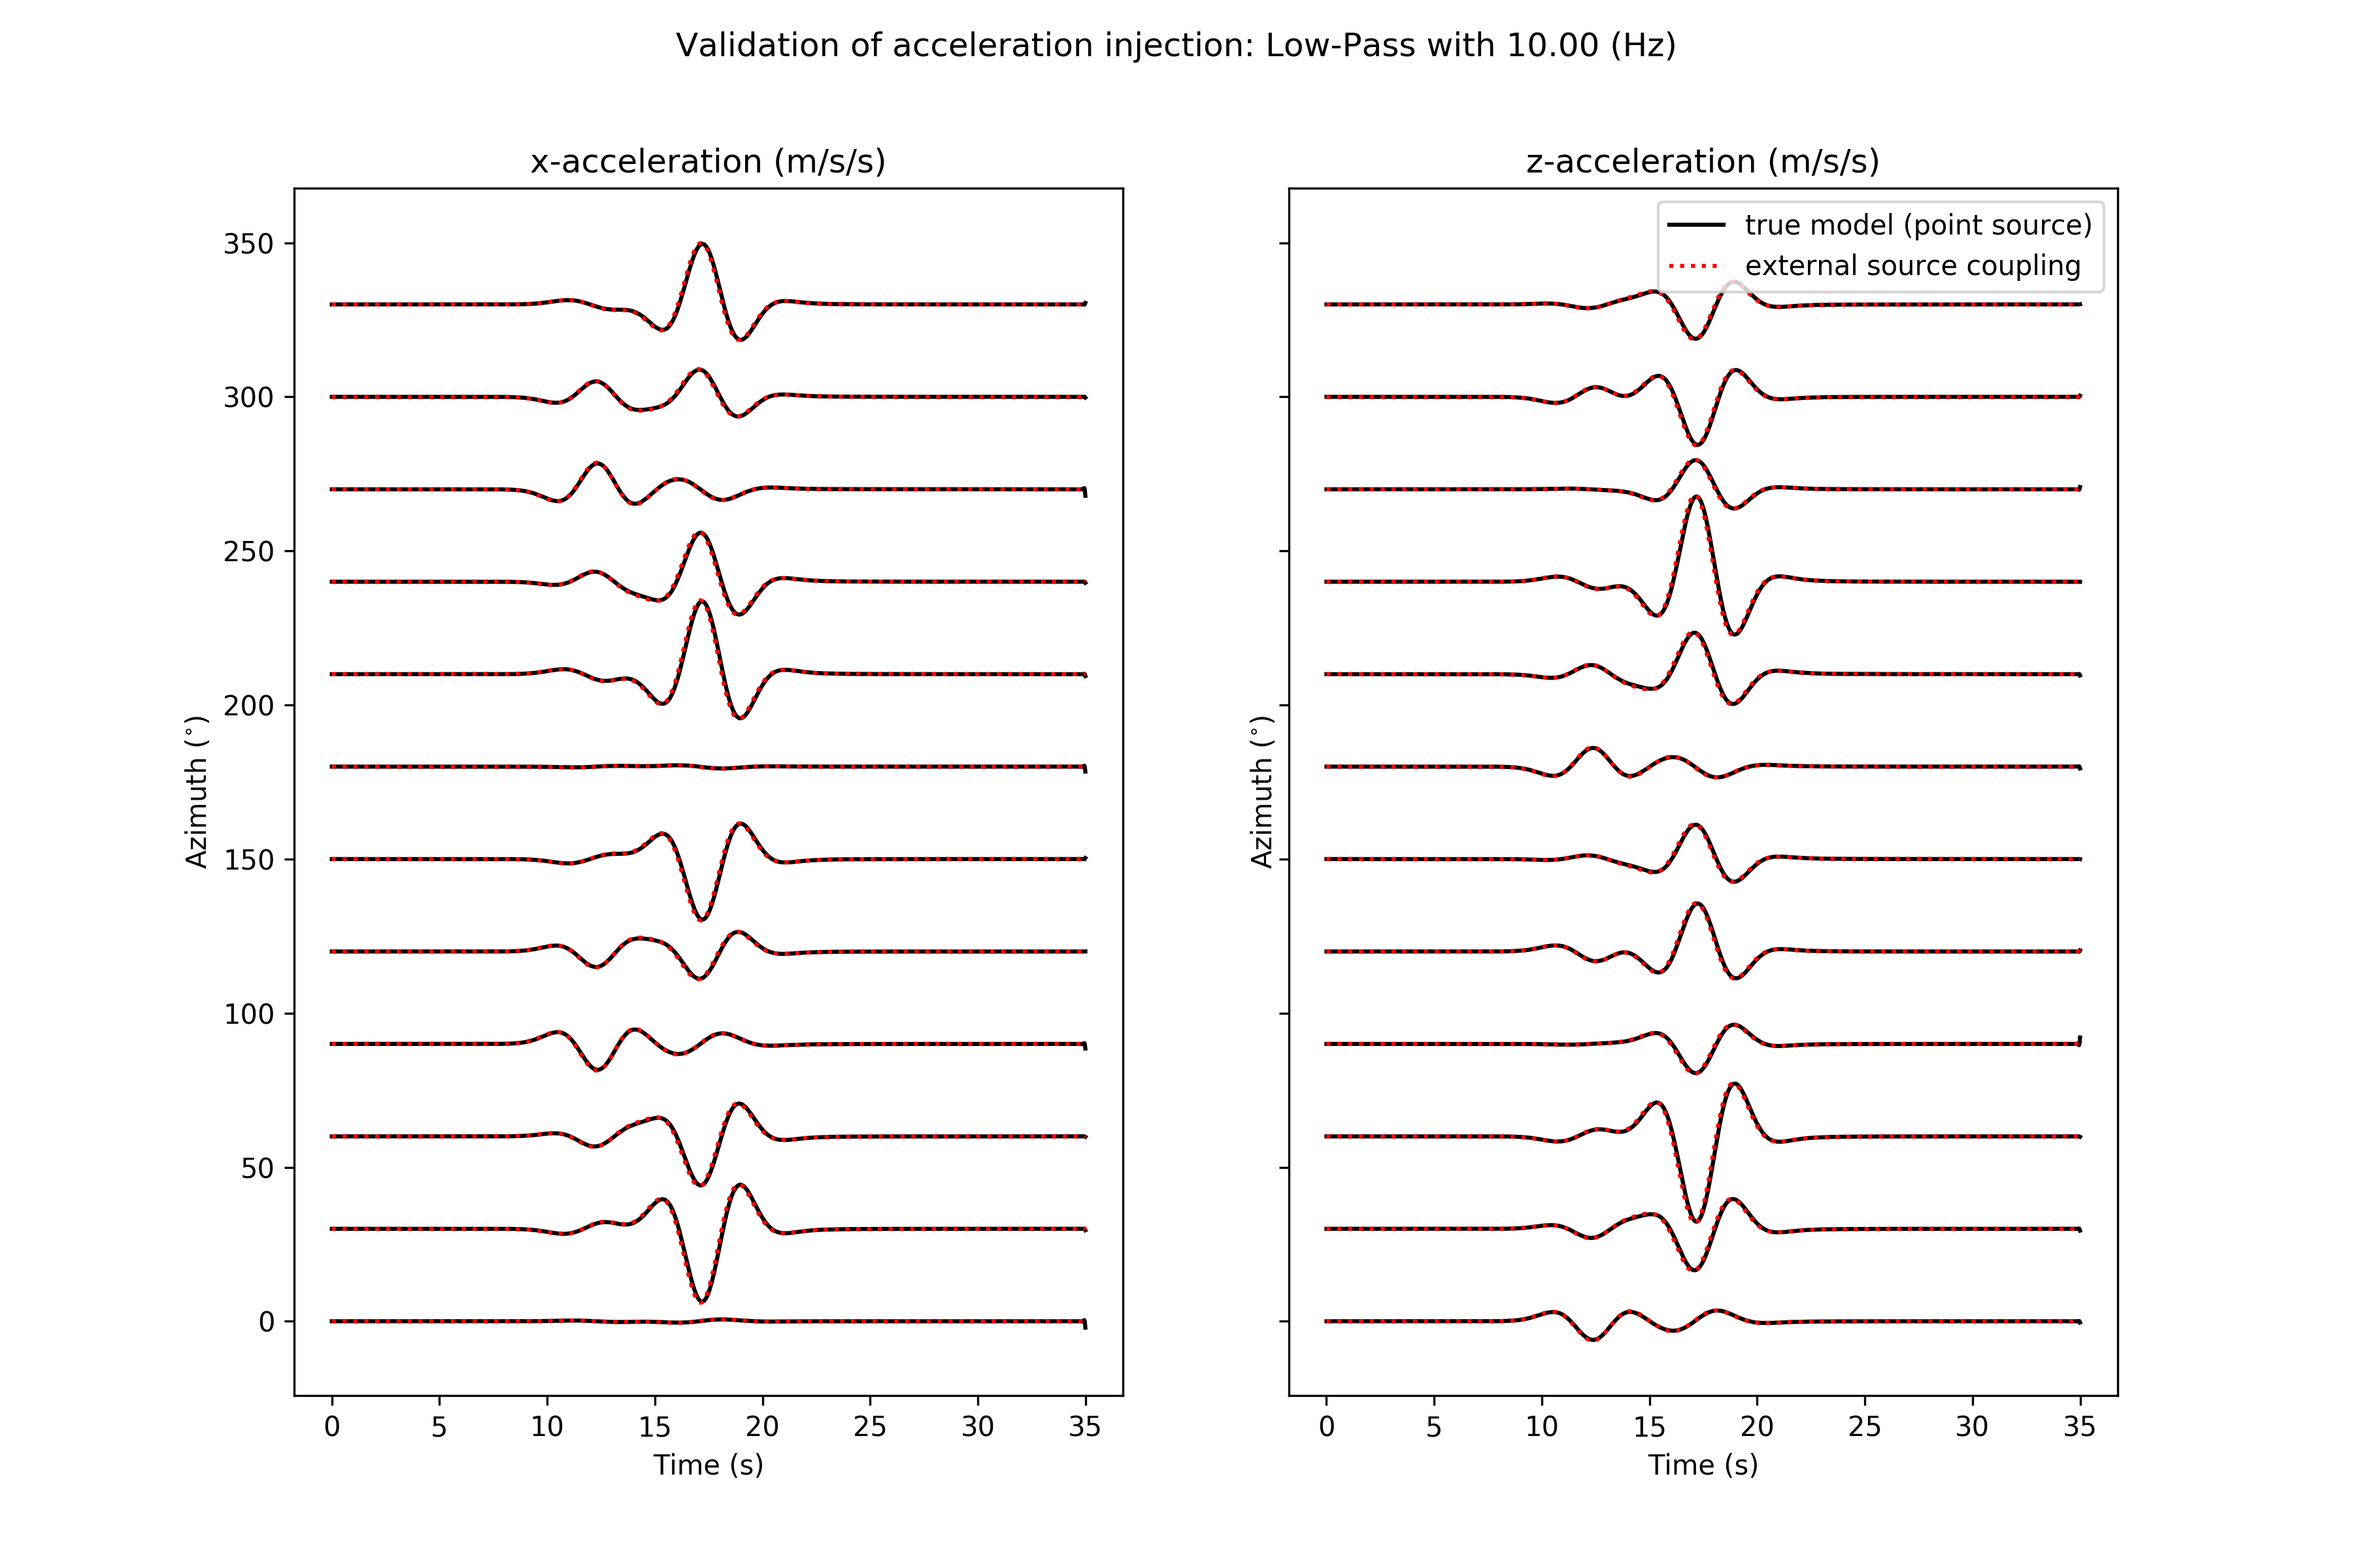
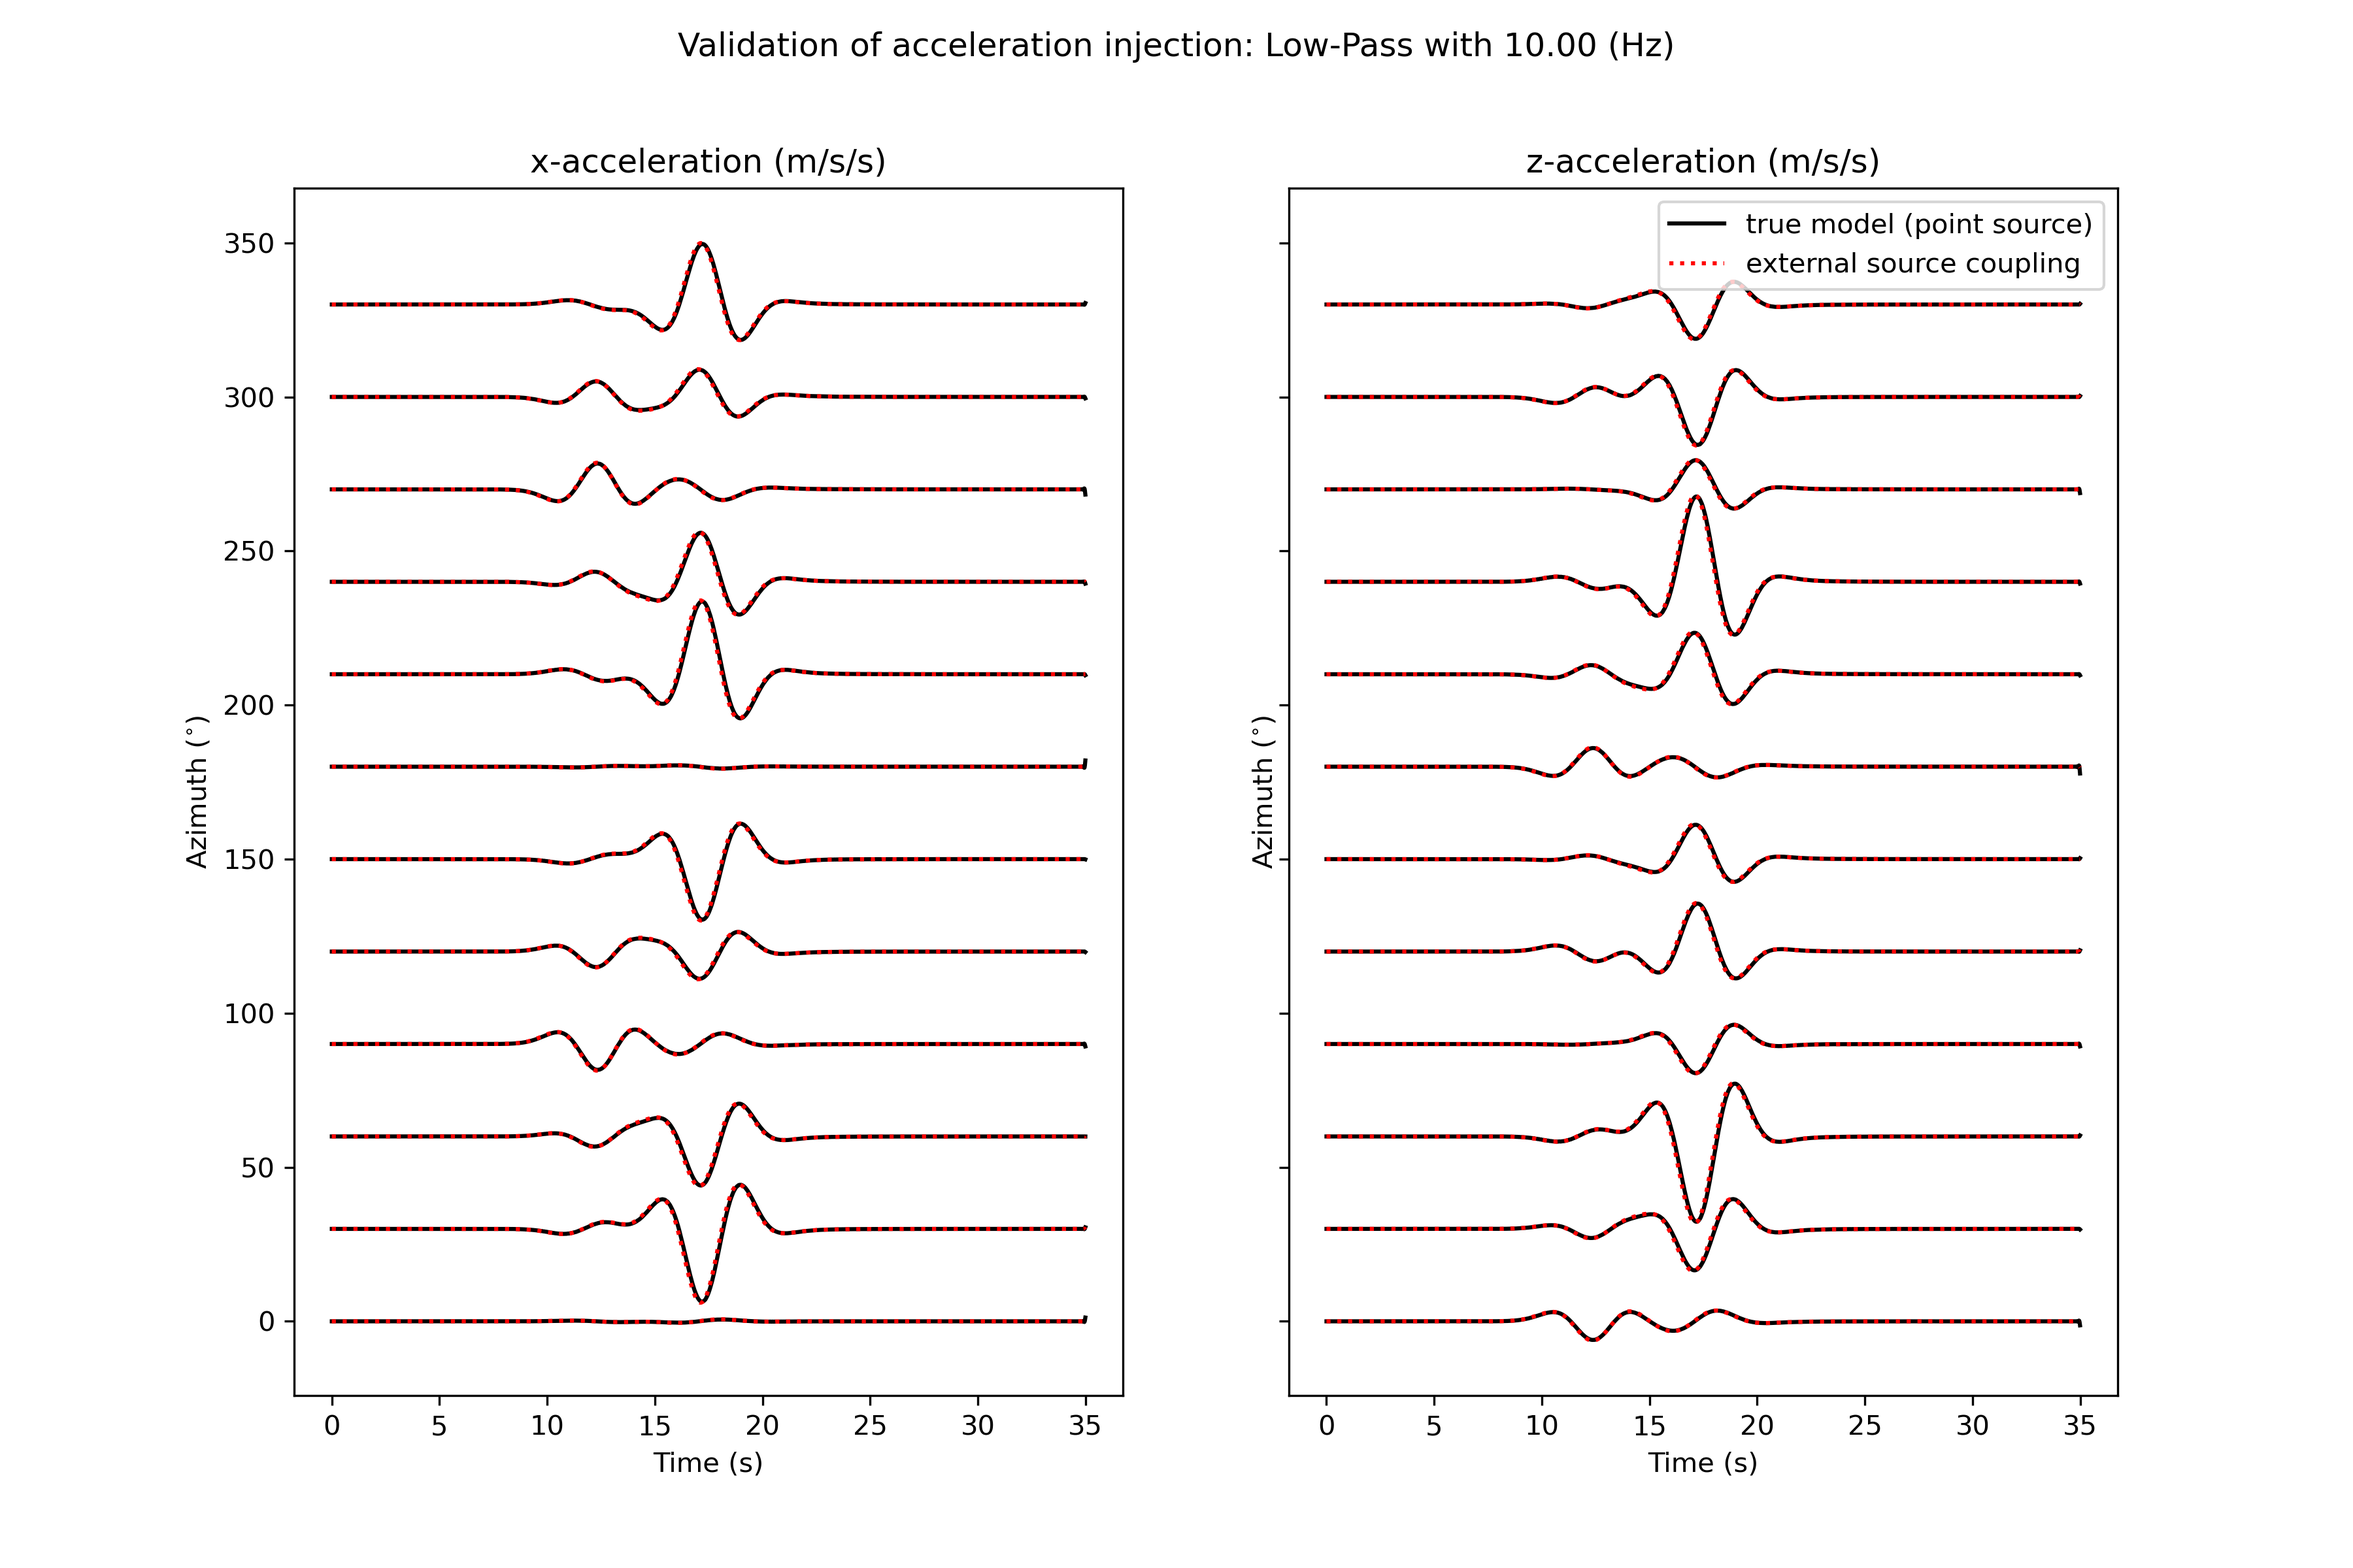
update the pandas and plot attributes

diff --git a/EXAMPLES/Validation/FullSpace/plot_result/plot_waveform_comparison.py b/EXAMPLES/Validation/FullSpace/plot_result/plot_waveform_comparison.py
@@ -22,7 +22,7 @@ fname="../OUTPUT_FILES_grid/externalsource.txt"
 fi = open(fname,'r')
 temp_df = pd.read_csv(fi,  header=None, engine='python', sep =',', comment='#')
 fi.close()
-temp = temp_df.as_matrix()
+temp = temp_df.values
 iele = temp[:,0]
 DT = temp[:,1]
 cx = temp[:,2]
@@ -63,27 +63,27 @@ for i in range(NumofCE, number_of_station):
 	with open("../OUTPUT_FILES_P/AA.S%04d.BXX.sema"%i, 'r') as fi:
 		temp_df = pd.read_csv(fi,  header=None, engine='python', delim_whitespace=True, comment='#')
 
-	temp	= temp_df.as_matrix()
+	temp	= temp_df.values
 	tx 		= temp[:,0]
 	ax_P 		= temp[:,1]
 
 	with open("../OUTPUT_FILES_P/AA.S%04d.BXZ.sema"%i, 'r') as fi:
 		temp_df = pd.read_csv(fi,  header=None, engine='python', delim_whitespace=True, comment='#')
 
-	temp	= temp_df.as_matrix()
+	temp	= temp_df.values
 	tz 		= temp[:,0]
 	az_P 		= temp[:,1]
 
 	with open("../OUTPUT_FILES_C/AA.S%04d.BXX.sema"%i, 'r') as fi:
 		temp_df = pd.read_csv(fi,  header=None, engine='python', delim_whitespace=True, comment='#')
 
-	temp	= temp_df.as_matrix()
+	temp	= temp_df.values
 	ax_C 		= temp[:,1]
 
 	with open("../OUTPUT_FILES_C/AA.S%04d.BXZ.sema"%i, 'r') as fi:
 		temp_df = pd.read_csv(fi,  header=None, engine='python', delim_whitespace=True, comment='#')
 
-	temp	= temp_df.as_matrix()
+	temp	= temp_df.values
 	az_C 		= temp[:,1]
 
 

diff --git a/EXAMPLES/Validation/FullSpace_reccoupling/plot_result/plot_waveform_comparison.py b/EXAMPLES/Validation/FullSpace_reccoupling/plot_result/plot_waveform_comparison.py
@@ -22,7 +22,7 @@ fname="../OUTPUT_FILES_grid/externalsource.txt"
 fi = open(fname,'r')
 temp_df = pd.read_csv(fi,  header=None, engine='python', sep =',', comment='#')
 fi.close()
-temp = temp_df.as_matrix()
+temp = temp_df.values
 iele = temp[:,0]
 DT = temp[:,1]
 cx = temp[:,2]
@@ -63,27 +63,27 @@ for i in range(NumofCE, number_of_station):
 	with open("../OUTPUT_FILES_P/AA.S%04d.BXX.sema"%i, 'r') as fi:
 		temp_df = pd.read_csv(fi,  header=None, engine='python', delim_whitespace=True, comment='#')
 
-	temp	= temp_df.as_matrix()
+	temp	= temp_df.values
 	tx 		= temp[:,0]
 	ax_P 		= temp[:,1]
 
 	with open("../OUTPUT_FILES_P/AA.S%04d.BXZ.sema"%i, 'r') as fi:
 		temp_df = pd.read_csv(fi,  header=None, engine='python', delim_whitespace=True, comment='#')
 
-	temp	= temp_df.as_matrix()
+	temp	= temp_df.values
 	tz 		= temp[:,0]
 	az_P 		= temp[:,1]
 
 	with open("../OUTPUT_FILES_C/AA.S%04d.BXX.sema"%i, 'r') as fi:
 		temp_df = pd.read_csv(fi,  header=None, engine='python', delim_whitespace=True, comment='#')
 
-	temp	= temp_df.as_matrix()
+	temp	= temp_df.values
 	ax_C 		= temp[:,1]
 
 	with open("../OUTPUT_FILES_C/AA.S%04d.BXZ.sema"%i, 'r') as fi:
 		temp_df = pd.read_csv(fi,  header=None, engine='python', delim_whitespace=True, comment='#')
 
-	temp	= temp_df.as_matrix()
+	temp	= temp_df.values
 	az_C 		= temp[:,1]
 
 

diff --git a/EXAMPLES/Validation/HalfSpace/plot_result/plot_waveform_comparison.py b/EXAMPLES/Validation/HalfSpace/plot_result/plot_waveform_comparison.py
@@ -22,7 +22,7 @@ fname="../OUTPUT_FILES_grid/externalsource.txt"
 fi = open(fname,'r')
 temp_df = pd.read_csv(fi,  header=None, engine='python', sep =',', comment='#')
 fi.close()
-temp = temp_df.as_matrix()
+temp = temp_df.values
 iele = temp[:,0]
 DT = temp[:,1]
 cx = temp[:,2]
@@ -63,27 +63,27 @@ for i in range(NumofCE, number_of_station):
 	with open("../OUTPUT_FILES_P/AA.S%04d.BXX.sema"%i, 'r') as fi:
 		temp_df = pd.read_csv(fi,  header=None, engine='python', delim_whitespace=True, comment='#')
 
-	temp	= temp_df.as_matrix()
+	temp	= temp_df.values
 	tx 		= temp[:,0]
 	ax_P 		= temp[:,1]
 
 	with open("../OUTPUT_FILES_P/AA.S%04d.BXZ.sema"%i, 'r') as fi:
 		temp_df = pd.read_csv(fi,  header=None, engine='python', delim_whitespace=True, comment='#')
 
-	temp	= temp_df.as_matrix()
+	temp	= temp_df.values
 	tz 		= temp[:,0]
 	az_P 		= temp[:,1]
 
 	with open("../OUTPUT_FILES_C/AA.S%04d.BXX.sema"%i, 'r') as fi:
 		temp_df = pd.read_csv(fi,  header=None, engine='python', delim_whitespace=True, comment='#')
 
-	temp	= temp_df.as_matrix()
+	temp	= temp_df.values
 	ax_C 		= temp[:,1]
 
 	with open("../OUTPUT_FILES_C/AA.S%04d.BXZ.sema"%i, 'r') as fi:
 		temp_df = pd.read_csv(fi,  header=None, engine='python', delim_whitespace=True, comment='#')
 
-	temp	= temp_df.as_matrix()
+	temp	= temp_df.values
 	az_C 		= temp[:,1]
 
 

diff --git a/EXAMPLES/Validation/FullSpace/make_extsource/make_externalsourcefile.py b/EXAMPLES/Validation/FullSpace/make_extsource/make_externalsourcefile.py
@@ -8,7 +8,7 @@ fname="../OUTPUT_FILES_grid/externalsource.txt"
 fi = open(fname,'r')
 temp_df = pd.read_csv(fi,  header=None, engine='python', sep =',', comment='#')
 fi.close()
-temp = temp_df.as_matrix()
+temp = temp_df.values
 iele = temp[:,0]
 DT = temp[:,1]
 cx = temp[:,2]
@@ -25,14 +25,14 @@ for i in range(NumofCE):
 	with open("../OUTPUT_FILES_P/AA.S%04d.BXX.sema"%i, 'r') as fi:
 		temp_df = pd.read_csv(fi,  header=None, engine='python', delim_whitespace=True, comment='#')
 
-	temp	= temp_df.as_matrix()
+	temp	= temp_df.values
 	tx 		= temp[:,0]
 	ax 		= temp[:,1]
 
 	with open("../OUTPUT_FILES_P/AA.S%04d.BXZ.sema"%i, 'r') as fi:
 		temp_df = pd.read_csv(fi,  header=None, engine='python', delim_whitespace=True, comment='#')
 
-	temp	= temp_df.as_matrix()
+	temp	= temp_df.values
 	tz 		= temp[:,0]
 	az 		= temp[:,1]
 

diff --git a/EXAMPLES/Validation/FullSpace_reccoupling/make_extsource/make_externalsourcefile.py b/EXAMPLES/Validation/FullSpace_reccoupling/make_extsource/make_externalsourcefile.py
@@ -8,7 +8,7 @@ fname="../OUTPUT_FILES_grid/externalsource.txt"
 fi = open(fname,'r')
 temp_df = pd.read_csv(fi,  header=None, engine='python', sep =',', comment='#')
 fi.close()
-temp = temp_df.as_matrix()
+temp = temp_df.values
 iele = temp[:,0]
 DT = temp[:,1]
 cx = temp[:,2]
@@ -25,14 +25,14 @@ for i in range(NumofCE):
 	with open("../OUTPUT_FILES_P/AA.S%04d.BXX.sema"%i, 'r') as fi:
 		temp_df = pd.read_csv(fi,  header=None, engine='python', delim_whitespace=True, comment='#')
 
-	temp	= temp_df.as_matrix()
+	temp	= temp_df.values
 	tx 		= temp[:,0]
 	ax 		= temp[:,1]
 
 	with open("../OUTPUT_FILES_P/AA.S%04d.BXZ.sema"%i, 'r') as fi:
 		temp_df = pd.read_csv(fi,  header=None, engine='python', delim_whitespace=True, comment='#')
 
-	temp	= temp_df.as_matrix()
+	temp	= temp_df.values
 	tz 		= temp[:,0]
 	az 		= temp[:,1]
 

diff --git a/EXAMPLES/Validation/HalfSpace/make_extsource/make_externalsourcefile.py b/EXAMPLES/Validation/HalfSpace/make_extsource/make_externalsourcefile.py
@@ -8,7 +8,7 @@ fname="../OUTPUT_FILES_grid/externalsource.txt"
 fi = open(fname,'r')
 temp_df = pd.read_csv(fi,  header=None, engine='python', sep =',', comment='#')
 fi.close()
-temp = temp_df.as_matrix()
+temp = temp_df.values
 iele = temp[:,0]
 DT = temp[:,1]
 cx = temp[:,2]
@@ -25,14 +25,14 @@ for i in range(NumofCE):
 	with open("../OUTPUT_FILES_P/AA.S%04d.BXX.sema"%i, 'r') as fi:
 		temp_df = pd.read_csv(fi,  header=None, engine='python', delim_whitespace=True, comment='#')
 
-	temp	= temp_df.as_matrix()
+	temp	= temp_df.values
 	tx 		= temp[:,0]
 	ax 		= temp[:,1]
 
 	with open("../OUTPUT_FILES_P/AA.S%04d.BXZ.sema"%i, 'r') as fi:
 		temp_df = pd.read_csv(fi,  header=None, engine='python', delim_whitespace=True, comment='#')
 
-	temp	= temp_df.as_matrix()
+	temp	= temp_df.values
 	tz 		= temp[:,0]
 	az 		= temp[:,1]
 

diff --git a/EXAMPLES/Validation/FullSpace/make_extsource/make_stationfile_at_extsource.py b/EXAMPLES/Validation/FullSpace/make_extsource/make_stationfile_at_extsource.py
@@ -8,7 +8,7 @@ fname="../OUTPUT_FILES_grid/externalsource.txt"
 fi = open(fname,'r')
 temp_df = pd.read_csv(fi,  header=None, engine='python', sep =',', comment='#')
 fi.close()
-temp = temp_df.as_matrix()
+temp = temp_df.values
 iele = temp[:,0]
 DT = temp[:,1]
 cx = temp[:,2]
@@ -34,5 +34,6 @@ with open("../DATA/STATIONS", 'w') as fo:
 # plot locations
 plt.plot(cx,cz,'bv')
 plt.plot(val_cx,val_cz,'rv')
-plt.axes().set_aspect('equal', 'datalim')
+ax=plt.gca()
+ax.set_aspect('equal', 'datalim')
 plt.show()

diff --git a/EXAMPLES/Validation/FullSpace_reccoupling/make_extsource/make_stationfile_at_extsource.py b/EXAMPLES/Validation/FullSpace_reccoupling/make_extsource/make_stationfile_at_extsource.py
@@ -8,7 +8,7 @@ fname="../OUTPUT_FILES_grid/externalsource.txt"
 fi = open(fname,'r')
 temp_df = pd.read_csv(fi,  header=None, engine='python', sep =',', comment='#')
 fi.close()
-temp = temp_df.as_matrix()
+temp = temp_df.falues
 iele = temp[:,0]
 DT = temp[:,1]
 cx = temp[:,2]
@@ -34,5 +34,6 @@ with open("../DATA/STATIONS", 'w') as fo:
 # plot locations
 plt.plot(cx,cz,'bv')
 plt.plot(val_cx,val_cz,'rv')
-plt.axes().set_aspect('equal', 'datalim')
+ax=plt.gca()
+ax.set_aspect('equal', 'datalim')
 plt.show()

diff --git a/EXAMPLES/Validation/HalfSpace/make_extsource/make_stationfile_at_extsource.py b/EXAMPLES/Validation/HalfSpace/make_extsource/make_stationfile_at_extsource.py
@@ -8,7 +8,7 @@ fname="../OUTPUT_FILES_grid/externalsource.txt"
 fi = open(fname,'r')
 temp_df = pd.read_csv(fi,  header=None, engine='python', sep =',', comment='#')
 fi.close()
-temp = temp_df.as_matrix()
+temp = temp_df.values
 iele = temp[:,0]
 DT = temp[:,1]
 cx = temp[:,2]
@@ -34,5 +34,6 @@ with open("../DATA/STATIONS", 'w') as fo:
 # plot locations
 plt.plot(cx,cz,'bv')
 plt.plot(val_cx,val_cz,'rv')
-plt.axes().set_aspect('equal', 'datalim')
+ax=plt.gca()
+ax.set_aspect('equal', 'datalim')
 plt.show()
